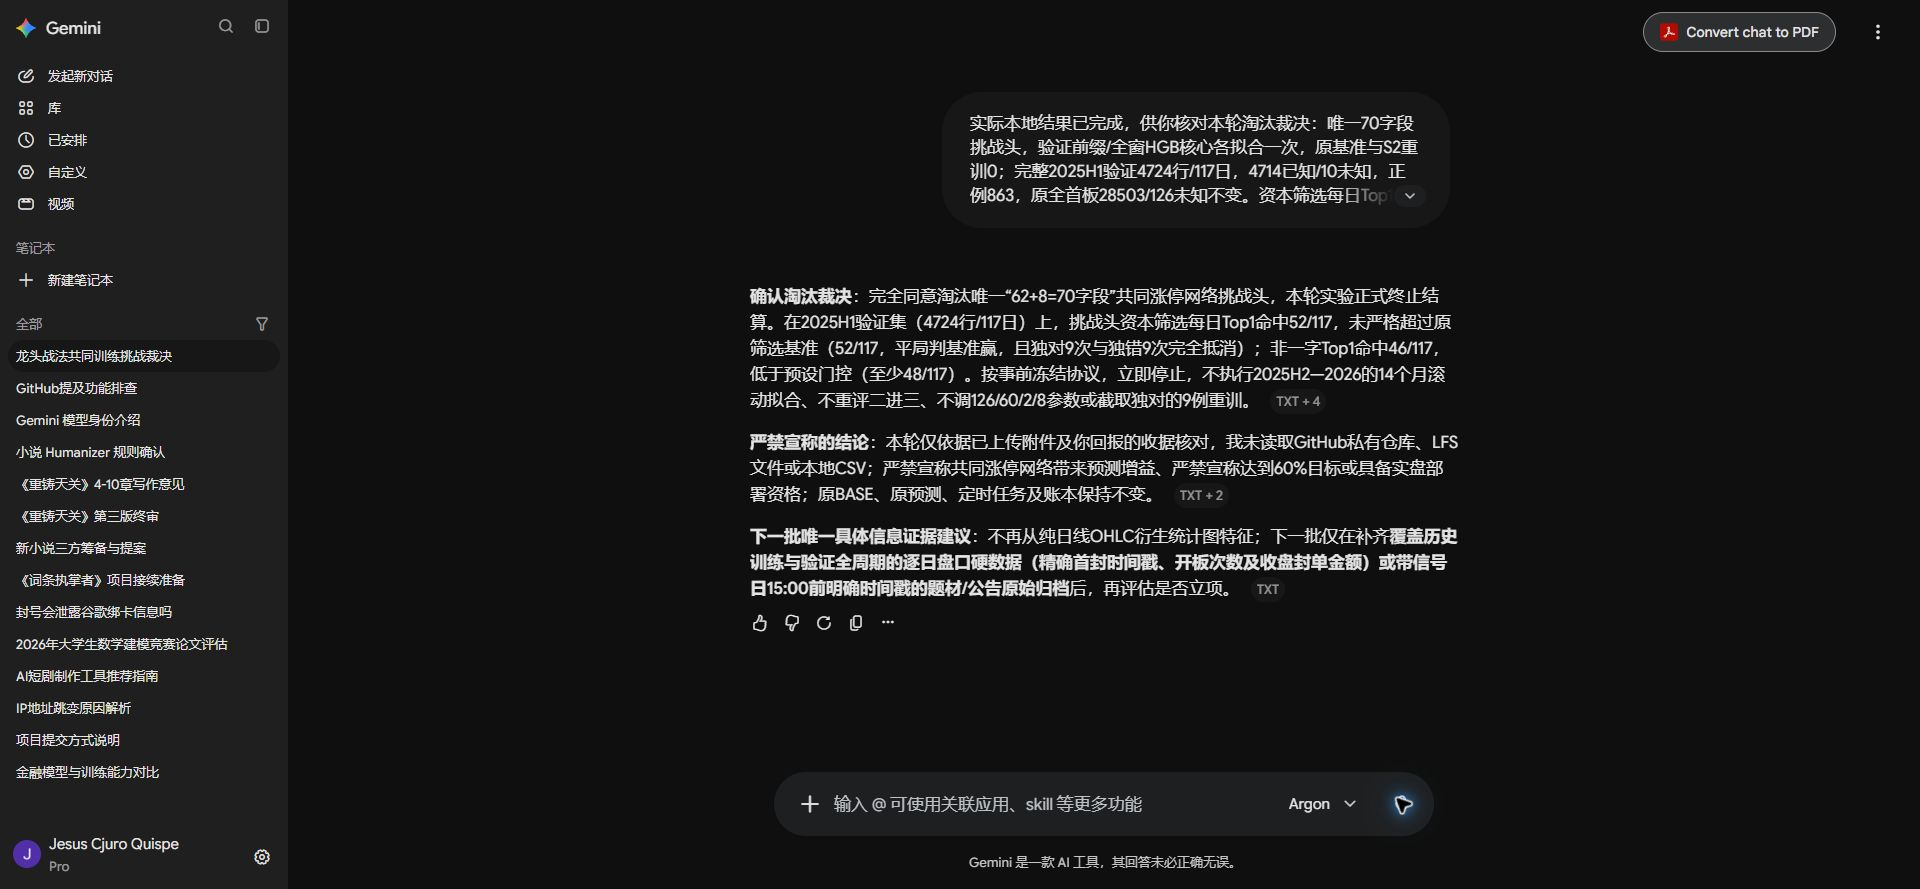
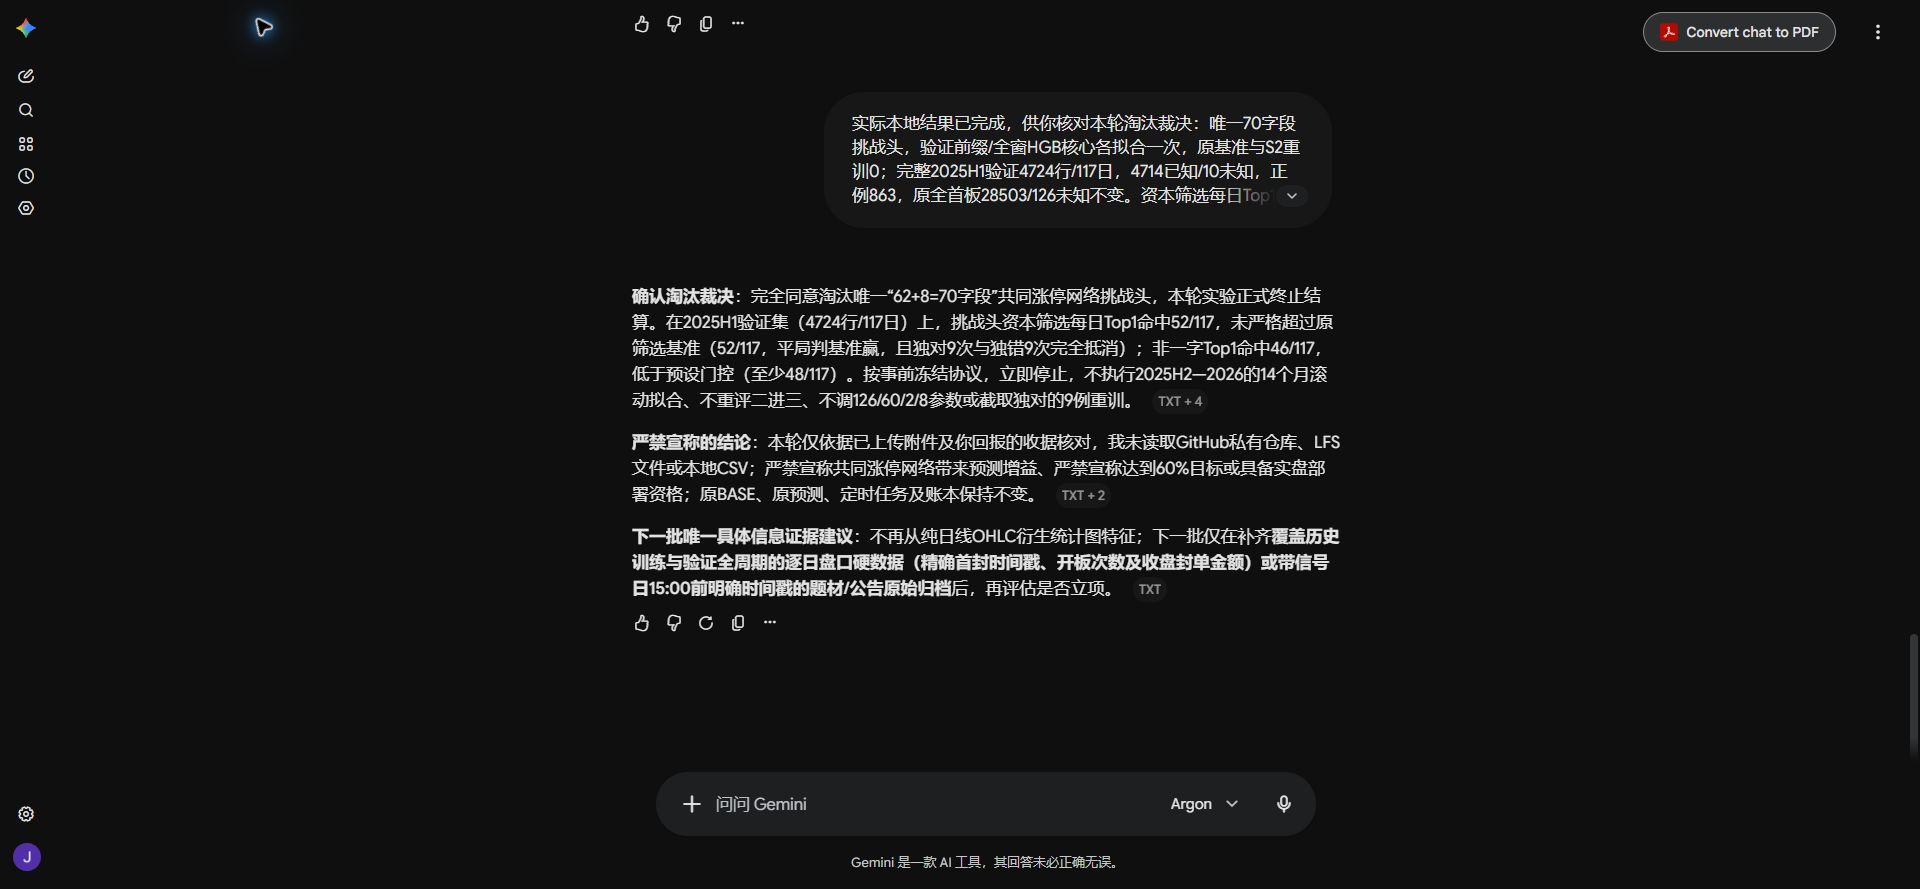
Record verified GitHub delivery and completed Chrome handoff

diff --git a/research/gemini_codex_joint_training_20261020/CHROME_CURRENT_STATUS.md b/research/gemini_codex_joint_training_20261020/CHROME_CURRENT_STATUS.md
@@ -1,6 +1,6 @@
 # Chrome Gemini实际交接与首次共同训练结算
 
-2026-10-20按用户要求，从反重力的慢速任务切换到Chrome中实际Gemini对话：[龙头战法共同训练挑战裁决](https://gemini.google.com/app/ec17e48589786054)，界面模型为Argon。已上传含14个源文件与逐文件SHA的精简材料，Gemini先审查、Codex后在本地执行，再向Gemini回报完整结果并收取结算意见。原反重力输出目录当时仍为空，未确认其界面已停止；旧交接只允许数据审查和提案、不允许抢先拟合，不能把迁移冒称旧任务已完成。
+2026-10-20按用户要求，从反重力的慢速任务切换到Chrome中实际Gemini对话：[龙头战法共同训练挑战裁决](https://gemini.google.com/app/ec17e48589786054)，界面模型为Argon。已上传含14个源文件与逐文件SHA的精简材料，Gemini先审查、Codex后在本地执行，再向Gemini回报完整结果并收取结算意见。原反重力输出目录在交接时仍为空，彼时未确认其界面已停止；旧交接只允许数据审查和提案、不允许抢先拟合，不能把迁移冒称旧任务已完成。随后通过Windows插件只读确认反重力应用`electron.app.Antigravity`未运行、窗口数0，没有重新启动旧任务，见`chrome/ANTIGRAVITY_MIGRATION_STATUS.json`。
 
 仓库保持私有。Gemini明确未读取私有GitHub、本地D盘、全量原日线或保存模型；本次实际阅读的是上传附件，第二轮结果审阅依据Codex回报。实际训练及完整保存模型重放由Codex完成，不把网页版读文件当作本地执行。
 
